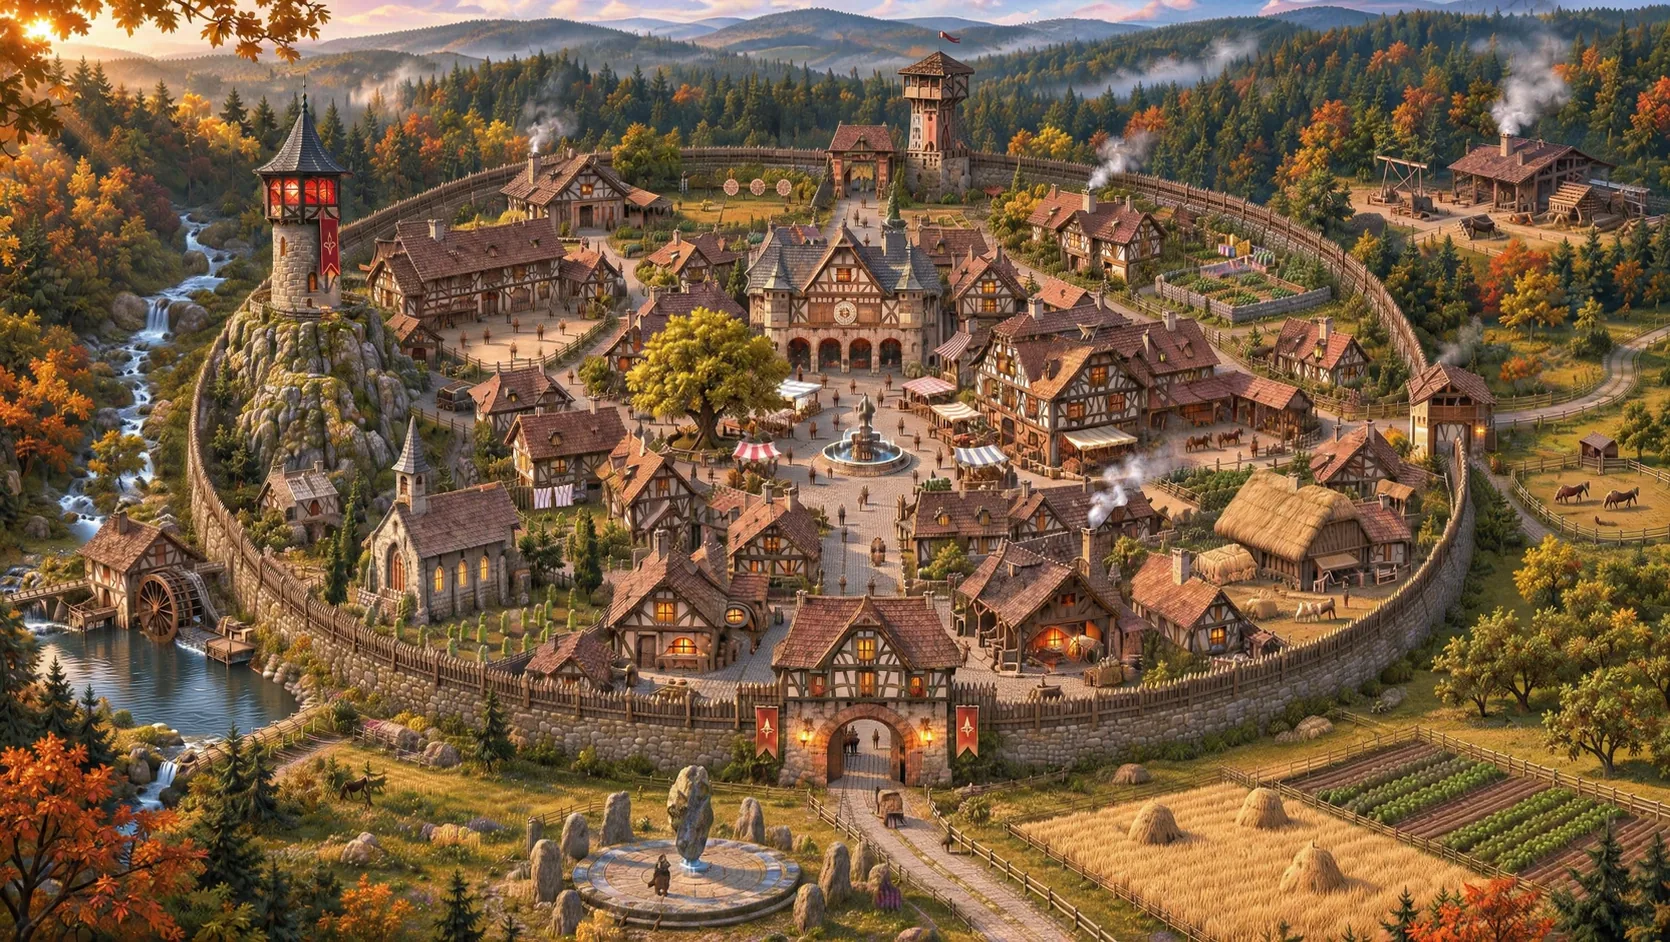
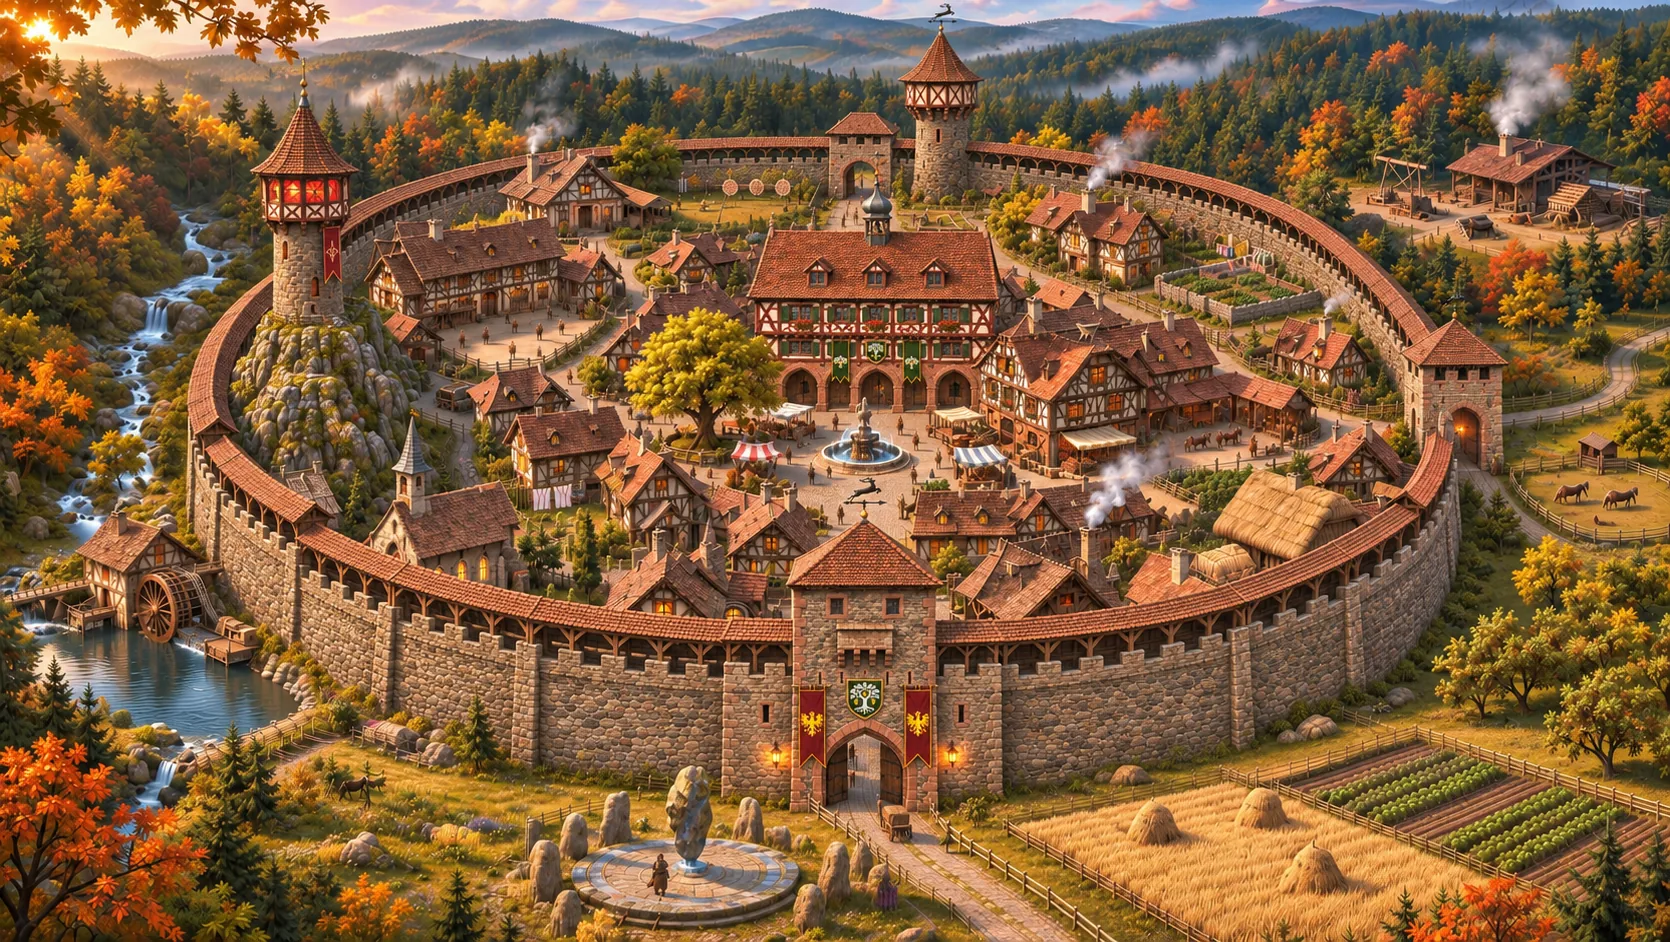
Show the town pictures with Hayn's new look
Ten pictures now match the redesign: the market square by day and night
and the town hall with the Forest Warden fountain and Hayn's arms, Hayn
from above and the West Gate with the stone wall and watchtowers, the
farmyard, the Golden Acorn's hall with its stag's head, Elwyn's Tower
with the indigo banner, Mira in her garden, and the barrow with the
heroes in their new colours.

diff --git a/art/views.html b/art/views.html
@@ -41,7 +41,7 @@
 <h2>From above</h2>
 <div class="gallery gallery-2"><figure class="fig "><a class="lb" href="../assets/img/full/ACT-BE-01.webp" data-caption="Aerial from the south-east"><img src="../assets/img/thumb/ACT-BE-01.webp" alt="Aerial from the south-east" width="960" height="542" loading="lazy" decoding="async"></a><figcaption>Aerial from the south-east</figcaption></figure><figure class="fig "><a class="lb" href="../assets/img/full/ACT-BE-02.webp" data-caption="From the north-west, over the forest"><img src="../assets/img/thumb/ACT-BE-02.webp" alt="From the north-west, over the forest" width="960" height="540" loading="lazy" decoding="async"></a><figcaption>From the north-west, over the forest</figcaption></figure></div>
 <h2 style="margin-top:72px">Around the town</h2>
-<div class="gallery gallery-2 gallery-169"><figure class="fig "><a class="lb" href="../assets/img/full/VW-01.webp" data-caption="From the watchtower, looking south"><img src="../assets/img/thumb/VW-01.webp" alt="From the watchtower, looking south" width="960" height="540" loading="lazy" decoding="async"></a><figcaption>From the watchtower, looking south</figcaption></figure><figure class="fig "><a class="lb" href="../assets/img/full/VW-02.webp" data-caption="The square and the town hall"><img src="../assets/img/thumb/VW-02.webp" alt="The square and the town hall" width="960" height="540" loading="lazy" decoding="async"></a><figcaption>The square and the town hall</figcaption></figure><figure class="fig "><a class="lb" href="../assets/img/full/VW-03.webp" data-caption="Through the west postern"><img src="../assets/img/thumb/VW-03.webp" alt="Through the west postern" width="960" height="540" loading="lazy" decoding="async"></a><figcaption>Through the west postern</figcaption></figure><figure class="fig "><a class="lb" href="../assets/img/full/ACT-VW-04.webp" data-caption="The Paladin training yard"><img src="../assets/img/thumb/ACT-VW-04.webp" alt="The Paladin training yard" width="960" height="541" loading="lazy" decoding="async"></a><figcaption>The Paladin training yard</figcaption></figure><figure class="fig "><a class="lb" href="../assets/img/full/ACT-VW-05.webp" data-caption="Hunters&#x27; Lodge and archery range"><img src="../assets/img/thumb/ACT-VW-05.webp" alt="Hunters&#x27; Lodge and archery range" width="960" height="540" loading="lazy" decoding="async"></a><figcaption>Hunters' Lodge and archery range</figcaption></figure><figure class="fig "><a class="lb" href="../assets/img/full/ACT-VW-06.webp" data-caption="Herbalist&#x27;s garden and spring shrine"><img src="../assets/img/thumb/ACT-VW-06.webp" alt="Herbalist&#x27;s garden and spring shrine" width="960" height="540" loading="lazy" decoding="async"></a><figcaption>Herbalist's garden and spring shrine</figcaption></figure><figure class="fig "><a class="lb" href="../assets/img/full/VW-07.webp" data-caption="Elwyn&#x27;s tower courtyard"><img src="../assets/img/thumb/VW-07.webp" alt="Elwyn&#x27;s tower courtyard" width="720" height="960" loading="lazy" decoding="async"></a><figcaption>Elwyn's tower courtyard</figcaption></figure><figure class="fig "><a class="lb" href="../assets/img/full/VW-08.webp" data-caption="The road out of town"><img src="../assets/img/thumb/VW-08.webp" alt="The road out of town" width="960" height="540" loading="lazy" decoding="async"></a><figcaption>The road out of town</figcaption></figure><figure class="fig "><a class="lb" href="../assets/img/full/VW-09.webp" data-caption="The farmstead and fields"><img src="../assets/img/thumb/VW-09.webp" alt="The farmstead and fields" width="960" height="540" loading="lazy" decoding="async"></a><figcaption>The farmstead and fields</figcaption></figure><figure class="fig "><a class="lb" href="../assets/img/full/VW-10.webp" data-caption="From the forest ridge"><img src="../assets/img/thumb/VW-10.webp" alt="From the forest ridge" width="960" height="413" loading="lazy" decoding="async"></a><figcaption>From the forest ridge</figcaption></figure></div>
+<div class="gallery gallery-2 gallery-169"><figure class="fig "><a class="lb" href="../assets/img/full/VW-01.webp" data-caption="From the watchtower, looking south"><img src="../assets/img/thumb/VW-01.webp" alt="From the watchtower, looking south" width="960" height="540" loading="lazy" decoding="async"></a><figcaption>From the watchtower, looking south</figcaption></figure><figure class="fig "><a class="lb" href="../assets/img/full/VW-02.webp" data-caption="The square and the town hall"><img src="../assets/img/thumb/VW-02.webp" alt="The square and the town hall" width="960" height="540" loading="lazy" decoding="async"></a><figcaption>The square and the town hall</figcaption></figure><figure class="fig "><a class="lb" href="../assets/img/full/VW-03.webp" data-caption="Through the west postern"><img src="../assets/img/thumb/VW-03.webp" alt="Through the west postern" width="960" height="540" loading="lazy" decoding="async"></a><figcaption>Through the west postern</figcaption></figure><figure class="fig "><a class="lb" href="../assets/img/full/ACT-VW-04.webp" data-caption="The Paladin training yard"><img src="../assets/img/thumb/ACT-VW-04.webp" alt="The Paladin training yard" width="960" height="541" loading="lazy" decoding="async"></a><figcaption>The Paladin training yard</figcaption></figure><figure class="fig "><a class="lb" href="../assets/img/full/ACT-VW-05.webp" data-caption="Hunters&#x27; Lodge and archery range"><img src="../assets/img/thumb/ACT-VW-05.webp" alt="Hunters&#x27; Lodge and archery range" width="960" height="540" loading="lazy" decoding="async"></a><figcaption>Hunters' Lodge and archery range</figcaption></figure><figure class="fig "><a class="lb" href="../assets/img/full/ACT-VW-06.webp" data-caption="Herbalist&#x27;s garden and spring shrine"><img src="../assets/img/thumb/ACT-VW-06.webp" alt="Herbalist&#x27;s garden and spring shrine" width="960" height="540" loading="lazy" decoding="async"></a><figcaption>Herbalist's garden and spring shrine</figcaption></figure><figure class="fig "><a class="lb" href="../assets/img/full/VW-07.webp" data-caption="Elwyn&#x27;s tower courtyard"><img src="../assets/img/thumb/VW-07.webp" alt="Elwyn&#x27;s tower courtyard" width="720" height="960" loading="lazy" decoding="async"></a><figcaption>Elwyn's tower courtyard</figcaption></figure><figure class="fig "><a class="lb" href="../assets/img/full/VW-08.webp" data-caption="The road out of town"><img src="../assets/img/thumb/VW-08.webp" alt="The road out of town" width="960" height="540" loading="lazy" decoding="async"></a><figcaption>The road out of town</figcaption></figure><figure class="fig "><a class="lb" href="../assets/img/full/VW-09.webp" data-caption="The farmstead and fields"><img src="../assets/img/thumb/VW-09.webp" alt="The farmstead and fields" width="960" height="541" loading="lazy" decoding="async"></a><figcaption>The farmstead and fields</figcaption></figure><figure class="fig "><a class="lb" href="../assets/img/full/VW-10.webp" data-caption="From the forest ridge"><img src="../assets/img/thumb/VW-10.webp" alt="From the forest ridge" width="960" height="413" loading="lazy" decoding="async"></a><figcaption>From the forest ridge</figcaption></figure></div>
 <h2 style="margin-top:72px">Maps</h2>
 <div class="gallery gallery-2"><figure class="fig "><a class="lb" href="../assets/img/full/TD-02.webp" data-caption="Painted map of Hayn"><img src="../assets/img/thumb/TD-02.webp" alt="Painted map of Hayn" width="960" height="808" loading="lazy" decoding="async"></a><figcaption>Painted map of Hayn</figcaption></figure><figure class="fig "><a class="lb" href="../assets/img/full/TD-04.webp" data-caption="Painted map of the Wolfwood"><img src="../assets/img/thumb/TD-04.webp" alt="Painted map of the Wolfwood" width="960" height="960" loading="lazy" decoding="async"></a><figcaption>Painted map of the Wolfwood</figcaption></figure><figure class="fig "><a class="lb" href="../assets/img/full/TD-05.webp" data-caption="Layout grid of Hayn"><img src="../assets/img/thumb/TD-05.webp" alt="Layout grid of Hayn" width="864" height="960" loading="lazy" decoding="async"></a><figcaption>Layout grid of Hayn</figcaption></figure></div></section>
 <div class="wrap"><nav class="pager" aria-label="Page"><a class="prev" href="../art/index.html"><small>Previous</small>Art</a><a class="next" href="../art/interiors.html"><small>Next</small>Interiors</a></nav></div>

diff --git a/de/art/views.html b/de/art/views.html
@@ -41,7 +41,7 @@
 <h2>Von oben</h2>
 <div class="gallery gallery-2"><figure class="fig "><a class="lb" href="../../assets/img/full/ACT-BE-01.webp" data-caption="Luftbild von Südosten"><img src="../../assets/img/thumb/ACT-BE-01.webp" alt="Luftbild von Südosten" width="960" height="542" loading="lazy" decoding="async"></a><figcaption>Luftbild von Südosten</figcaption></figure><figure class="fig "><a class="lb" href="../../assets/img/full/ACT-BE-02.webp" data-caption="Von Nordwesten, über den Wald"><img src="../../assets/img/thumb/ACT-BE-02.webp" alt="Von Nordwesten, über den Wald" width="960" height="540" loading="lazy" decoding="async"></a><figcaption>Von Nordwesten, über den Wald</figcaption></figure></div>
 <h2 style="margin-top:72px">Rund um die Stadt</h2>
-<div class="gallery gallery-2 gallery-169"><figure class="fig "><a class="lb" href="../../assets/img/full/VW-01.webp" data-caption="Vom Wachturm nach Süden"><img src="../../assets/img/thumb/VW-01.webp" alt="Vom Wachturm nach Süden" width="960" height="540" loading="lazy" decoding="async"></a><figcaption>Vom Wachturm nach Süden</figcaption></figure><figure class="fig "><a class="lb" href="../../assets/img/full/VW-02.webp" data-caption="Der Platz und das Rathaus"><img src="../../assets/img/thumb/VW-02.webp" alt="Der Platz und das Rathaus" width="960" height="540" loading="lazy" decoding="async"></a><figcaption>Der Platz und das Rathaus</figcaption></figure><figure class="fig "><a class="lb" href="../../assets/img/full/VW-03.webp" data-caption="Durch die Westpforte"><img src="../../assets/img/thumb/VW-03.webp" alt="Durch die Westpforte" width="960" height="540" loading="lazy" decoding="async"></a><figcaption>Durch die Westpforte</figcaption></figure><figure class="fig "><a class="lb" href="../../assets/img/full/ACT-VW-04.webp" data-caption="Der Paladin-Übungsplatz"><img src="../../assets/img/thumb/ACT-VW-04.webp" alt="Der Paladin-Übungsplatz" width="960" height="541" loading="lazy" decoding="async"></a><figcaption>Der Paladin-Übungsplatz</figcaption></figure><figure class="fig "><a class="lb" href="../../assets/img/full/ACT-VW-05.webp" data-caption="Jägerhütte und Bogenschießplatz"><img src="../../assets/img/thumb/ACT-VW-05.webp" alt="Jägerhütte und Bogenschießplatz" width="960" height="540" loading="lazy" decoding="async"></a><figcaption>Jägerhütte und Bogenschießplatz</figcaption></figure><figure class="fig "><a class="lb" href="../../assets/img/full/ACT-VW-06.webp" data-caption="Kräutergarten und Quellschrein"><img src="../../assets/img/thumb/ACT-VW-06.webp" alt="Kräutergarten und Quellschrein" width="960" height="540" loading="lazy" decoding="async"></a><figcaption>Kräutergarten und Quellschrein</figcaption></figure><figure class="fig "><a class="lb" href="../../assets/img/full/VW-07.webp" data-caption="Der Hof von Elwyns Turm"><img src="../../assets/img/thumb/VW-07.webp" alt="Der Hof von Elwyns Turm" width="720" height="960" loading="lazy" decoding="async"></a><figcaption>Der Hof von Elwyns Turm</figcaption></figure><figure class="fig "><a class="lb" href="../../assets/img/full/VW-08.webp" data-caption="Die Straße aus der Stadt"><img src="../../assets/img/thumb/VW-08.webp" alt="Die Straße aus der Stadt" width="960" height="540" loading="lazy" decoding="async"></a><figcaption>Die Straße aus der Stadt</figcaption></figure><figure class="fig "><a class="lb" href="../../assets/img/full/VW-09.webp" data-caption="Der Bauernhof und die Felder"><img src="../../assets/img/thumb/VW-09.webp" alt="Der Bauernhof und die Felder" width="960" height="540" loading="lazy" decoding="async"></a><figcaption>Der Bauernhof und die Felder</figcaption></figure><figure class="fig "><a class="lb" href="../../assets/img/full/VW-10.webp" data-caption="Vom Waldkamm"><img src="../../assets/img/thumb/VW-10.webp" alt="Vom Waldkamm" width="960" height="413" loading="lazy" decoding="async"></a><figcaption>Vom Waldkamm</figcaption></figure></div>
+<div class="gallery gallery-2 gallery-169"><figure class="fig "><a class="lb" href="../../assets/img/full/VW-01.webp" data-caption="Vom Wachturm nach Süden"><img src="../../assets/img/thumb/VW-01.webp" alt="Vom Wachturm nach Süden" width="960" height="540" loading="lazy" decoding="async"></a><figcaption>Vom Wachturm nach Süden</figcaption></figure><figure class="fig "><a class="lb" href="../../assets/img/full/VW-02.webp" data-caption="Der Platz und das Rathaus"><img src="../../assets/img/thumb/VW-02.webp" alt="Der Platz und das Rathaus" width="960" height="540" loading="lazy" decoding="async"></a><figcaption>Der Platz und das Rathaus</figcaption></figure><figure class="fig "><a class="lb" href="../../assets/img/full/VW-03.webp" data-caption="Durch die Westpforte"><img src="../../assets/img/thumb/VW-03.webp" alt="Durch die Westpforte" width="960" height="540" loading="lazy" decoding="async"></a><figcaption>Durch die Westpforte</figcaption></figure><figure class="fig "><a class="lb" href="../../assets/img/full/ACT-VW-04.webp" data-caption="Der Paladin-Übungsplatz"><img src="../../assets/img/thumb/ACT-VW-04.webp" alt="Der Paladin-Übungsplatz" width="960" height="541" loading="lazy" decoding="async"></a><figcaption>Der Paladin-Übungsplatz</figcaption></figure><figure class="fig "><a class="lb" href="../../assets/img/full/ACT-VW-05.webp" data-caption="Jägerhütte und Bogenschießplatz"><img src="../../assets/img/thumb/ACT-VW-05.webp" alt="Jägerhütte und Bogenschießplatz" width="960" height="540" loading="lazy" decoding="async"></a><figcaption>Jägerhütte und Bogenschießplatz</figcaption></figure><figure class="fig "><a class="lb" href="../../assets/img/full/ACT-VW-06.webp" data-caption="Kräutergarten und Quellschrein"><img src="../../assets/img/thumb/ACT-VW-06.webp" alt="Kräutergarten und Quellschrein" width="960" height="540" loading="lazy" decoding="async"></a><figcaption>Kräutergarten und Quellschrein</figcaption></figure><figure class="fig "><a class="lb" href="../../assets/img/full/VW-07.webp" data-caption="Der Hof von Elwyns Turm"><img src="../../assets/img/thumb/VW-07.webp" alt="Der Hof von Elwyns Turm" width="720" height="960" loading="lazy" decoding="async"></a><figcaption>Der Hof von Elwyns Turm</figcaption></figure><figure class="fig "><a class="lb" href="../../assets/img/full/VW-08.webp" data-caption="Die Straße aus der Stadt"><img src="../../assets/img/thumb/VW-08.webp" alt="Die Straße aus der Stadt" width="960" height="540" loading="lazy" decoding="async"></a><figcaption>Die Straße aus der Stadt</figcaption></figure><figure class="fig "><a class="lb" href="../../assets/img/full/VW-09.webp" data-caption="Der Bauernhof und die Felder"><img src="../../assets/img/thumb/VW-09.webp" alt="Der Bauernhof und die Felder" width="960" height="541" loading="lazy" decoding="async"></a><figcaption>Der Bauernhof und die Felder</figcaption></figure><figure class="fig "><a class="lb" href="../../assets/img/full/VW-10.webp" data-caption="Vom Waldkamm"><img src="../../assets/img/thumb/VW-10.webp" alt="Vom Waldkamm" width="960" height="413" loading="lazy" decoding="async"></a><figcaption>Vom Waldkamm</figcaption></figure></div>
 <h2 style="margin-top:72px">Karten</h2>
 <div class="gallery gallery-2"><figure class="fig "><a class="lb" href="../../assets/img/full/TD-02.webp" data-caption="Gemalte Karte von Hayn"><img src="../../assets/img/thumb/TD-02.webp" alt="Gemalte Karte von Hayn" width="960" height="808" loading="lazy" decoding="async"></a><figcaption>Gemalte Karte von Hayn</figcaption></figure><figure class="fig "><a class="lb" href="../../assets/img/full/TD-04.webp" data-caption="Gemalte Karte des Wolfsforsts"><img src="../../assets/img/thumb/TD-04.webp" alt="Gemalte Karte des Wolfsforsts" width="960" height="960" loading="lazy" decoding="async"></a><figcaption>Gemalte Karte des Wolfsforsts</figcaption></figure><figure class="fig "><a class="lb" href="../../assets/img/full/TD-05.webp" data-caption="Lageplan von Hayn mit Raster"><img src="../../assets/img/thumb/TD-05.webp" alt="Lageplan von Hayn mit Raster" width="864" height="960" loading="lazy" decoding="async"></a><figcaption>Lageplan von Hayn mit Raster</figcaption></figure></div></section>
 <div class="wrap"><nav class="pager" aria-label="Page"><a class="prev" href="../../de/art/index.html"><small>Zurück</small>Kunst</a><a class="next" href="../../de/art/interiors.html"><small>Weiter</small>Innenräume</a></nav></div>

diff --git a/de/world/hayn.html b/de/world/hayn.html
@@ -52,7 +52,7 @@
 <h2 style="margin-top:72px">Orte in der Stadt</h2>
 <div class="table-wrap"><table class="data-table "><thead><tr><th scope="col">Ort</th><th scope="col">Wer</th><th scope="col">Warum du hingehst</th></tr></thead><tbody><tr><th scope="row">Runenportal</th><td>—</td><td>Ankunft und Rückkehrpunkt</td></tr><tr><th scope="row">Rathaus & Wachhaus</th><td>Hauptmann Roland</td><td>Die Hauptquests</td></tr><tr><th scope="row">Schmiede</th><td>Hermann</td><td>Waffen, Rüstung, Felle, Schmieden</td></tr><tr><th scope="row">Kaserne & Übungsplatz</th><td>Bron</td><td>Paladin-Gilde</td></tr><tr><th scope="row">Jägerhütte</th><td>Hagen</td><td>Ranger-Gilde und Bogenschießplatz</td></tr><tr><th scope="row">Kräuterhaus & Quellschrein</th><td>Mira</td><td>Weißmagier-Gilde, Kräuter, Alchemie</td></tr><tr><th scope="row">Elwyns Turm</th><td>Elwyn</td><td>Elementaristen-Gilde und Runenkreis</td></tr><tr><th scope="row">Gasthaus: Zur Goldenen Eichel</th><td>Der Wirt</td><td>Rückkehrpunkt, Essen</td></tr><tr><th scope="row">Krämerladen</th><td>Der Krämer</td><td>Tränke, Vorräte, Taschen</td></tr><tr><th scope="row">Nordtor & Wachturm</th><td>Die Wachen</td><td>Die Straße nach Frankfurt und der Weg in den Wolfsforst</td></tr></tbody></table></div>
 <h2 style="margin-top:72px">Rund um die Mauer</h2>
-<div class="gallery gallery-3"><figure class="fig ph "><div class="ph-box" role="img" aria-label="Nebliger Morgen am Mühlteich"><span class="ph-id">KA-09</span><span class="ph-note">Bild in Arbeit</span></div><figcaption>Nebliger Morgen am Mühlteich</figcaption></figure><figure class="fig "><a class="lb" href="../../assets/img/full/VW-09.webp" data-caption="Der Bauernhof und die Felder"><img src="../../assets/img/thumb/VW-09.webp" alt="Der Bauernhof und die Felder" width="960" height="540" loading="lazy" decoding="async"></a><figcaption>Der Bauernhof und die Felder</figcaption></figure><figure class="fig "><a class="lb" href="../../assets/img/full/VW-03.webp" data-caption="Durch die Westpforte"><img src="../../assets/img/thumb/VW-03.webp" alt="Durch die Westpforte" width="960" height="540" loading="lazy" decoding="async"></a><figcaption>Durch die Westpforte</figcaption></figure></div></section>
+<div class="gallery gallery-3"><figure class="fig ph "><div class="ph-box" role="img" aria-label="Nebliger Morgen am Mühlteich"><span class="ph-id">KA-09</span><span class="ph-note">Bild in Arbeit</span></div><figcaption>Nebliger Morgen am Mühlteich</figcaption></figure><figure class="fig "><a class="lb" href="../../assets/img/full/VW-09.webp" data-caption="Der Bauernhof und die Felder"><img src="../../assets/img/thumb/VW-09.webp" alt="Der Bauernhof und die Felder" width="960" height="541" loading="lazy" decoding="async"></a><figcaption>Der Bauernhof und die Felder</figcaption></figure><figure class="fig "><a class="lb" href="../../assets/img/full/VW-03.webp" data-caption="Durch die Westpforte"><img src="../../assets/img/thumb/VW-03.webp" alt="Durch die Westpforte" width="960" height="540" loading="lazy" decoding="async"></a><figcaption>Durch die Westpforte</figcaption></figure></div></section>
 <div class="wrap"><nav class="pager" aria-label="Page"><a class="prev" href="../../de/world/index.html"><small>Zurück</small>Welt</a><a class="next" href="../../de/world/wolfwood.html"><small>Weiter</small>Der Wolfsforst</a></nav></div>
 </main>
 

diff --git a/world/hayn.html b/world/hayn.html
@@ -52,7 +52,7 @@
 <h2 style="margin-top:72px">Places in town</h2>
 <div class="table-wrap"><table class="data-table "><thead><tr><th scope="col">Place</th><th scope="col">Who</th><th scope="col">Why you go there</th></tr></thead><tbody><tr><th scope="row">Rune Portal</th><td>—</td><td>Arrival and return point</td></tr><tr><th scope="row">Town Hall & Watch House</th><td>Captain Roland</td><td>The main quests</td></tr><tr><th scope="row">Forge</th><td>Hermann</td><td>Weapons, armour, pelts, forging</td></tr><tr><th scope="row">Barracks & Training Yard</th><td>Bron</td><td>Paladin guild</td></tr><tr><th scope="row">Hunters' Lodge</th><td>Hagen</td><td>Ranger guild and archery range</td></tr><tr><th scope="row">Herbalist's House & Spring Shrine</th><td>Mira</td><td>White Mage guild, herbs, alchemy</td></tr><tr><th scope="row">Elwyn's Tower</th><td>Elwyn</td><td>Elementalist guild and rune circle</td></tr><tr><th scope="row">Inn: the Golden Acorn</th><td>The innkeeper</td><td>Return point, food</td></tr><tr><th scope="row">General store</th><td>The storekeeper</td><td>Potions, supplies, bags</td></tr><tr><th scope="row">North Gate & Watchtower</th><td>The guards</td><td>The road to Frankfurt and the way into the Wolfwood</td></tr></tbody></table></div>
 <h2 style="margin-top:72px">Around the wall</h2>
-<div class="gallery gallery-3"><figure class="fig ph "><div class="ph-box" role="img" aria-label="Misty dawn at the mill pond"><span class="ph-id">KA-09</span><span class="ph-note">Artwork in progress</span></div><figcaption>Misty dawn at the mill pond</figcaption></figure><figure class="fig "><a class="lb" href="../assets/img/full/VW-09.webp" data-caption="The farmstead and fields"><img src="../assets/img/thumb/VW-09.webp" alt="The farmstead and fields" width="960" height="540" loading="lazy" decoding="async"></a><figcaption>The farmstead and fields</figcaption></figure><figure class="fig "><a class="lb" href="../assets/img/full/VW-03.webp" data-caption="Through the west postern"><img src="../assets/img/thumb/VW-03.webp" alt="Through the west postern" width="960" height="540" loading="lazy" decoding="async"></a><figcaption>Through the west postern</figcaption></figure></div></section>
+<div class="gallery gallery-3"><figure class="fig ph "><div class="ph-box" role="img" aria-label="Misty dawn at the mill pond"><span class="ph-id">KA-09</span><span class="ph-note">Artwork in progress</span></div><figcaption>Misty dawn at the mill pond</figcaption></figure><figure class="fig "><a class="lb" href="../assets/img/full/VW-09.webp" data-caption="The farmstead and fields"><img src="../assets/img/thumb/VW-09.webp" alt="The farmstead and fields" width="960" height="541" loading="lazy" decoding="async"></a><figcaption>The farmstead and fields</figcaption></figure><figure class="fig "><a class="lb" href="../assets/img/full/VW-03.webp" data-caption="Through the west postern"><img src="../assets/img/thumb/VW-03.webp" alt="Through the west postern" width="960" height="540" loading="lazy" decoding="async"></a><figcaption>Through the west postern</figcaption></figure></div></section>
 <div class="wrap"><nav class="pager" aria-label="Page"><a class="prev" href="../world/index.html"><small>Previous</small>World</a><a class="next" href="../world/wolfwood.html"><small>Next</small>The Wolfwood</a></nav></div>
 </main>
 
